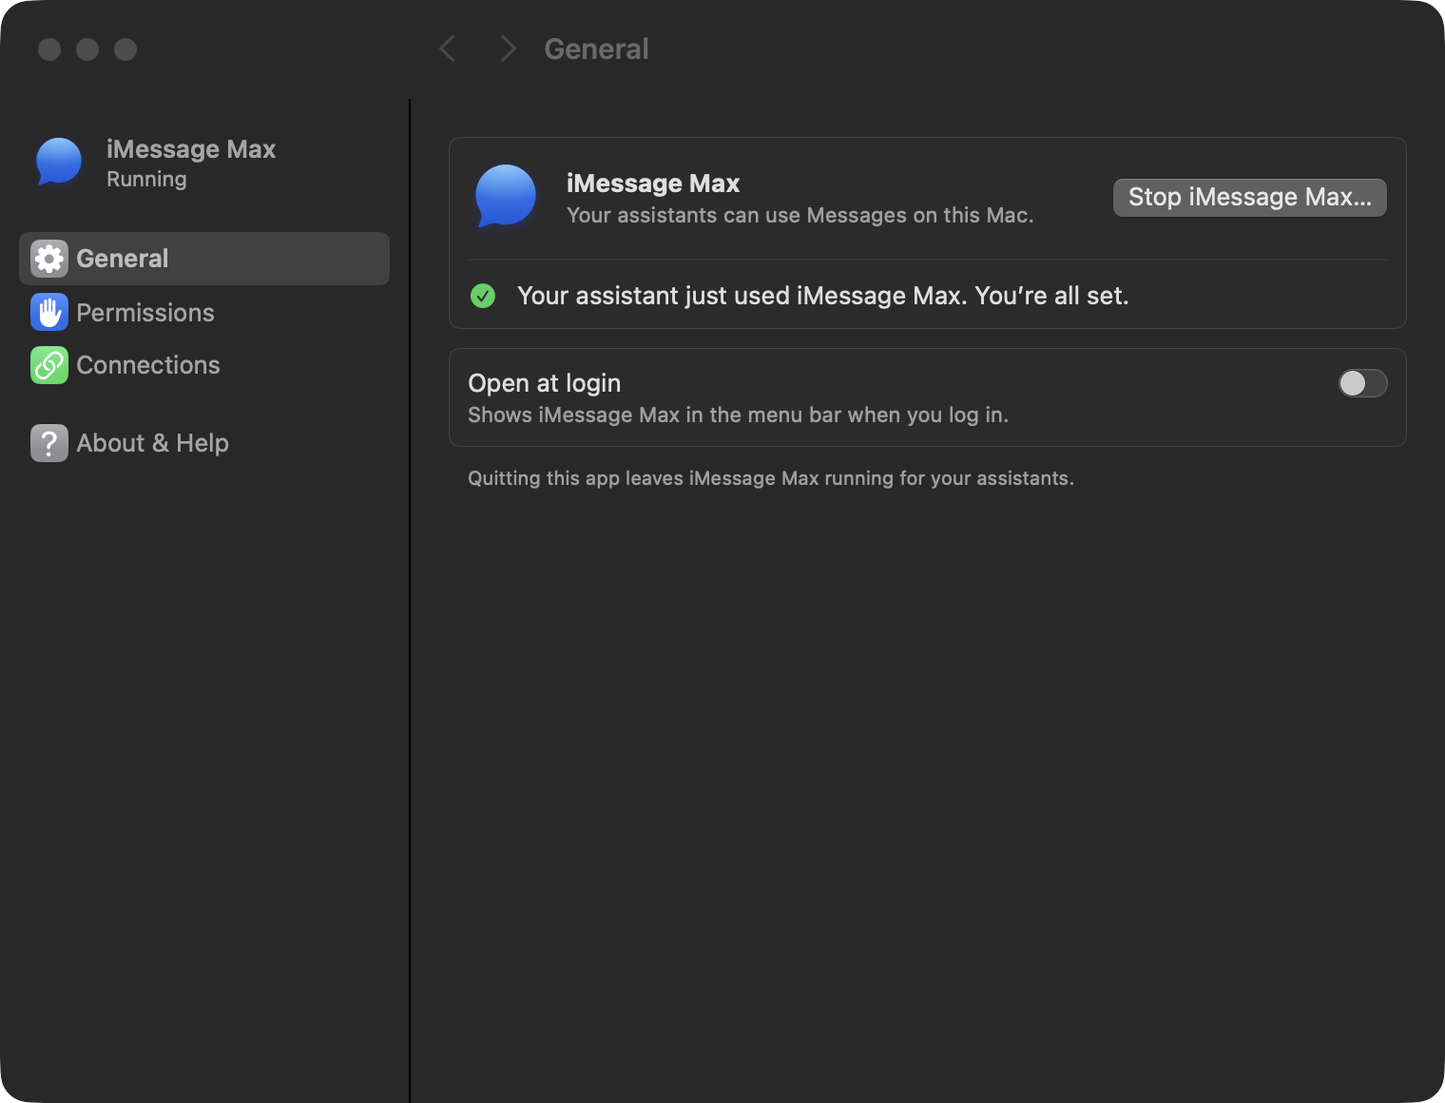
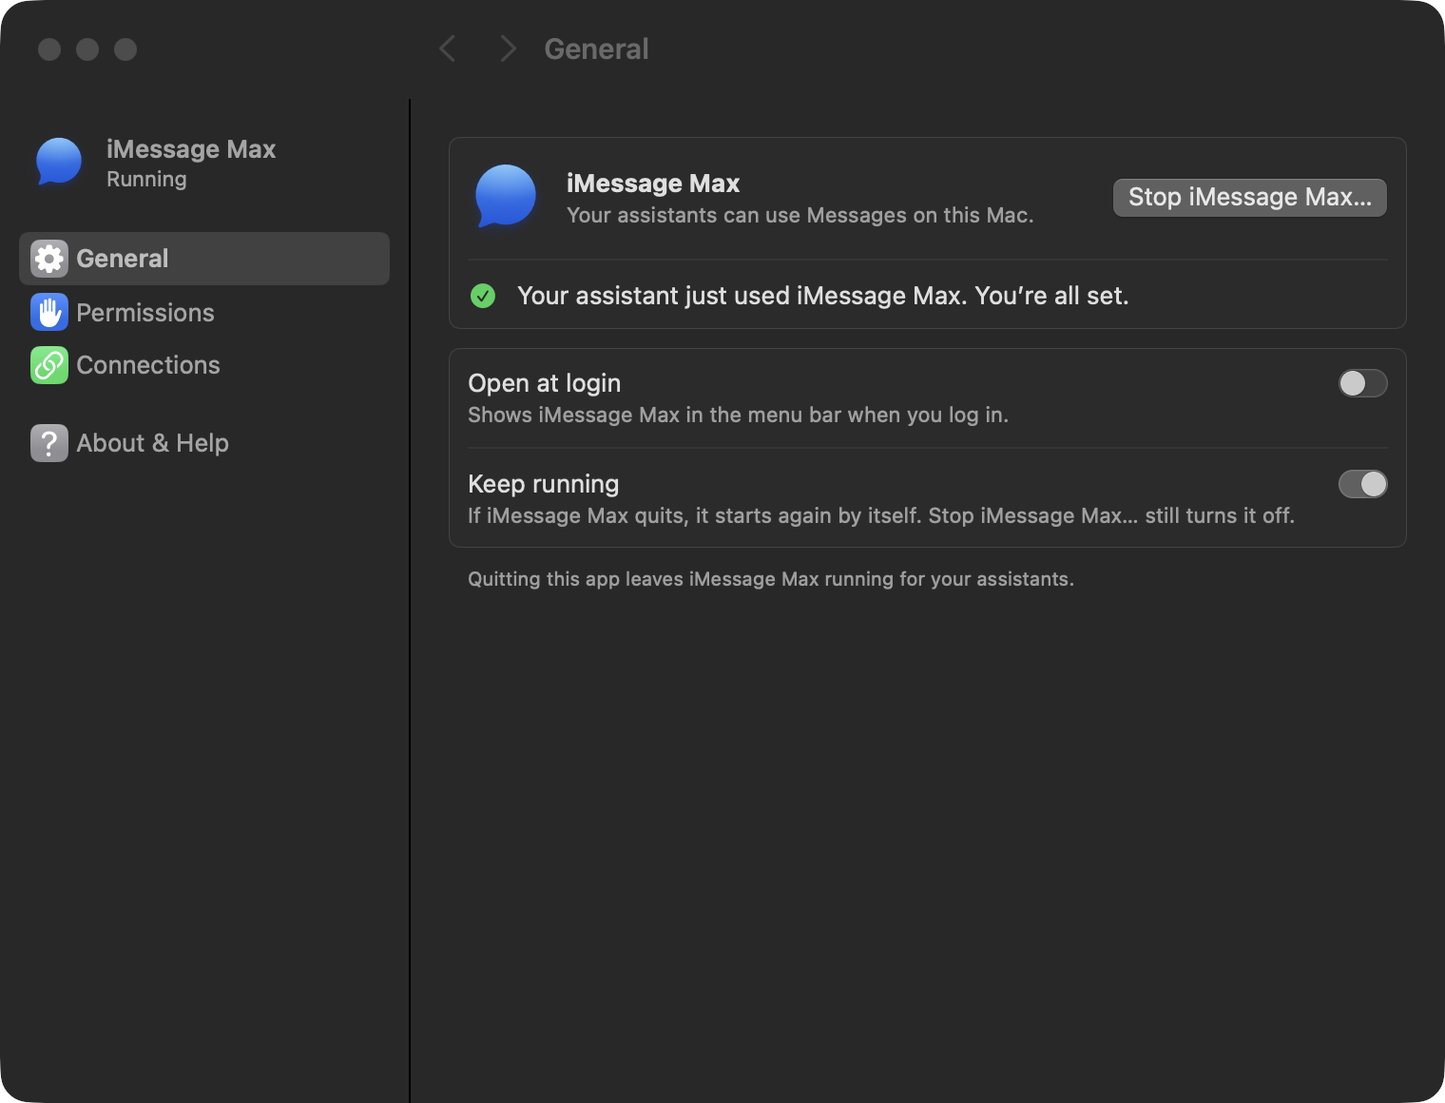
feat: Keep running setting for the helper
Settings → General gets a Keep running toggle, on by default. While it is
on, the helper starts again after a plain quit (Activity Monitor, kill),
as #42 made it do always. Turned off, a quit leaves it stopped. Stop
iMessage Max… still unloads the job with launchctl bootout either way.

The plist's KeepAlive is back to {SuccessfulExit: false}, which also
covers crashes, so Crashed is gone. On SIGTERM the helper drains as
before, then reads the setting: exit 0 when a stay-stopped file sits
beside its token, otherwise exit 75 (EX_TEMPFAIL) so launchd relaunches
it. Reading at stop time means the toggle needs no restart. The file
lives in the token file's folder, so a test helper with --token-file
never reads the installed helper's setting. The name is in the contract,
and MaxCore's KeepRunningSetting does the companion's file I/O.

Claude-Session: https://claude.ai/code/session_01EHDfML8yK1iuTpEK9HwBbU

Changed region(s): [[0.3092, 0.4034, 0.8967, 0.5276], [0.9276, 0.4034, 0.9586, 0.4655]]

diff --git a/swift/Tests/iMessageMaxTests/SignalShutdownTests.swift b/swift/Tests/iMessageMaxTests/SignalShutdownTests.swift
@@ -1,10 +1,15 @@
 import Darwin
 import Foundation
+import IMessageMaxContract
 import XCTest
+@testable import iMessageMax
 
 /// launchd, logout and SMAppService stop the HTTP service with SIGTERM. A
-/// clean stop must exit 0: launchd counts any other ending as a crash, and
-/// an abort also leaves a crash report (#27).
+/// clean stop must end in a plain exit, never an abort, which leaves a crash
+/// report (#27). The exit code carries the Keep running setting: 0 while the
+/// stay-stopped file sits beside the token, so launchd leaves the helper
+/// down, and `KeepRunning.relaunchExitCode` otherwise, so launchd starts it
+/// again.
 ///
 /// The abort only showed in optimized builds, so CI and `make release-check`
 /// also run this class with IMESSAGE_MAX_BINARY set to the release binary.
@@ -15,6 +20,23 @@ final class SignalShutdownTests: XCTestCase {
     func testIdleServerExitsZeroOnSIGTERM() throws {
         let server = try SpawnedServer()
         try server.terminate(within: 5)
+    }
+
+    func testWithoutTheStayStoppedFileSIGTERMExitsWithTheRelaunchCode() throws {
+        let server = try SpawnedServer(stayStopped: false)
+        try server.terminate(within: 5, expecting: KeepRunning.relaunchExitCode)
+        XCTAssertTrue(server.stderr.contains("Stopped exit=\(KeepRunning.relaunchExitCode)"), server.stderr)
+    }
+
+    /// The companion's toggle reaches a running helper, with no restart.
+    func testTheSettingIsReadWhenTheServerStops() throws {
+        let turnedOff = try SpawnedServer(stayStopped: false)
+        try turnedOff.setStayStopped(true)
+        try turnedOff.terminate(within: 5)
+
+        let turnedOn = try SpawnedServer()
+        try turnedOn.setStayStopped(false)
+        try turnedOn.terminate(within: 5, expecting: KeepRunning.relaunchExitCode)
     }
 
     func testServerWithAnOpenSSEStreamExitsZeroOnSIGTERM() throws {
@@ -101,12 +123,14 @@ private final class SpawnedServer {
     private let folder: URL
     private let stderrURL: URL
 
-    /// `prepare` runs before launch with the socket path.
-    init(prepare: (String) throws -> Void = { _ in }) throws {
+    /// `prepare` runs before launch with the socket path. `stayStopped`
+    /// writes the Keep running opt-out beside the token, so SIGTERM exits 0.
+    init(stayStopped: Bool = true, prepare: (String) throws -> Void = { _ in }) throws {
         // Short, so the socket path fits sun_path.
         folder = URL(fileURLWithPath: try makeShortTempFolder())
         socketPath = folder.appendingPathComponent("s.sock").path
         try prepare(socketPath)
+        try Self.setStayStopped(stayStopped, in: folder)
         let tokenURL = folder.appendingPathComponent("token")
         stderrURL = folder.appendingPathComponent("stderr.log")
         FileManager.default.createFile(atPath: stderrURL.path, contents: nil)
@@ -146,8 +170,22 @@ private final class SpawnedServer {
         try? FileManager.default.removeItem(at: folder)
     }
 
+    func setStayStopped(_ on: Bool) throws { try Self.setStayStopped(on, in: folder) }
+
+    private static func setStayStopped(_ on: Bool, in folder: URL) throws {
+        let marker = folder.appendingPathComponent(ServiceDefaults.stayStoppedFileName)
+        if on {
+            try Data().write(to: marker)
+        } else if FileManager.default.fileExists(atPath: marker.path) {
+            try FileManager.default.removeItem(at: marker)
+        }
+    }
+
     @discardableResult
-    func terminate(within seconds: TimeInterval, file: StaticString = #filePath, line: UInt = #line) throws -> TimeInterval {
+    func terminate(
+        within seconds: TimeInterval, expecting status: Int32 = 0,
+        file: StaticString = #filePath, line: UInt = #line
+    ) throws -> TimeInterval {
         let start = Date()
         kill(process.processIdentifier, SIGTERM)
         guard exited.wait(timeout: .now() + seconds) == .success else {
@@ -155,7 +193,7 @@ private final class SpawnedServer {
         }
         let elapsed = Date().timeIntervalSince(start)
         XCTAssertEqual(process.terminationReason, .exit, "server died by signal \(process.terminationStatus) after \(elapsed) s: \(Self.tail(stderrURL))", file: file, line: line)
-        XCTAssertEqual(process.terminationStatus, 0, "server exited \(process.terminationStatus) after \(elapsed) s: \(Self.tail(stderrURL))", file: file, line: line)
+        XCTAssertEqual(process.terminationStatus, status, "server exited \(process.terminationStatus) after \(elapsed) s: \(Self.tail(stderrURL))", file: file, line: line)
         return elapsed
     }
 

diff --git a/macos/Tests/CompanionTests/AppModelTests.swift b/macos/Tests/CompanionTests/AppModelTests.swift
@@ -46,14 +46,16 @@ private actor StuckSystem: ServiceSystem {
 }
 
 @MainActor
-private func model(_ system: any ServiceSystem, milestones: Milestones = Milestones(defaults: nil)) throws -> AppModel {
+private func model(
+  _ system: any ServiceSystem, milestones: Milestones = Milestones(defaults: nil),
+  home: URL = FileManager.default.temporaryDirectory.appendingPathComponent(UUID().uuidString)
+) throws -> AppModel {
   let plist = try PropertyListSerialization.data(
     fromPropertyList: [
       "Label": ServiceDefaults.launchdLabel, "BundleProgram": ServiceDefaults.helperBundlePath,
       "AssociatedBundleIdentifiers": [ServiceDefaults.companionBundleID],
       "ProgramArguments": [ServiceDefaults.executableName, "--http", "--port", "8080"],
     ], format: .xml, options: 0)
-  let home = FileManager.default.temporaryDirectory.appendingPathComponent(UUID().uuidString)
   let configuration = try ServiceConfiguration(
     plist: plist, plistName: "\(ServiceDefaults.launchdLabel).plist",
     bundleIdentifier: ServiceDefaults.companionBundleID,
@@ -66,6 +68,32 @@ private func model(_ system: any ServiceSystem, milestones: Milestones = Milesto
 }
 
 @Suite struct AppModelTests {
+  @MainActor @Test func keepRunningIsOnUntilTheUserTurnsItOff() throws {
+    let home = FileManager.default.temporaryDirectory.appendingPathComponent(UUID().uuidString)
+    defer { try? FileManager.default.removeItem(at: home) }
+    let marker = home.appendingPathComponent(ServiceDefaults.tokenPath).deletingLastPathComponent()
+      .appendingPathComponent(ServiceDefaults.stayStoppedFileName)
+    let first = try model(StuckSystem(running: false), home: home)
+    #expect(first.keepRunning == true)
+
+    first.setKeepRunning(false)
+    #expect(first.keepRunning == false)
+    #expect(FileManager.default.fileExists(atPath: marker.path))
+    #expect(try model(StuckSystem(running: false), home: home).keepRunning == false)
+
+    first.setKeepRunning(true)
+    #expect(first.keepRunning == true)
+    #expect(!FileManager.default.fileExists(atPath: marker.path))
+    #expect(first.problem == nil)
+  }
+
+  @MainActor @Test func keepRunningIsHiddenWithoutAHelperToKeep() {
+    let model = AppModel(
+      controller: nil, milestones: Milestones(defaults: nil), prepareMessages: {})
+    #expect(model.keepRunning == nil)
+    model.setKeepRunning(false)
+    #expect(model.keepRunning == nil)
+  }
   @MainActor @Test func aServiceChangeThatNeverAnswersFreesTheButtons() async throws {
     let system = StuckSystem(running: false)
     let model = try model(system)

diff --git a/macos/Tests/MaxCoreTests/KeepRunningSettingTests.swift b/macos/Tests/MaxCoreTests/KeepRunningSettingTests.swift
@@ -1,0 +1,58 @@
+import Foundation
+import IMessageMaxContract
+import Testing
+
+@testable import MaxCore
+
+@Suite struct KeepRunningSettingTests {
+  private let home = FileManager.default.temporaryDirectory
+    .appendingPathComponent("keep-running-\(UUID().uuidString)")
+
+  private func configuration(_ extra: [String] = []) throws -> ServiceConfiguration {
+    let plist = try PropertyListSerialization.data(
+      fromPropertyList: [
+        "Label": ServiceDefaults.launchdLabel, "BundleProgram": ServiceDefaults.helperBundlePath,
+        "AssociatedBundleIdentifiers": [ServiceDefaults.companionBundleID],
+        "ProgramArguments": [ServiceDefaults.executableName, "--http"] + extra,
+      ], format: .xml, options: 0)
+    return try ServiceConfiguration(
+      plist: plist, plistName: "\(ServiceDefaults.launchdLabel).plist",
+      bundleIdentifier: ServiceDefaults.companionBundleID,
+      bundleURL: URL(fileURLWithPath: "/Applications/iMessage Max.app"), home: home)
+  }
+
+  @Test func theFileSitsBesideTheTokenTheHelperReads() throws {
+    let standard = KeepRunningSetting(configuration: try configuration())
+    #expect(
+      standard.marker
+        == home.appendingPathComponent(ServiceDefaults.tokenPath).deletingLastPathComponent()
+        .appendingPathComponent(ServiceDefaults.stayStoppedFileName))
+
+    let variant = KeepRunningSetting(
+      configuration: try configuration(["--token-file", "/tmp/imax-test/token"]))
+    #expect(variant.marker.path == "/tmp/imax-test/\(ServiceDefaults.stayStoppedFileName)")
+  }
+
+  @Test func onByDefaultAndOffOnlyWhileTheFileExists() throws {
+    defer { try? FileManager.default.removeItem(at: home) }
+    let setting = KeepRunningSetting(configuration: try configuration())
+    #expect(setting.isOn)
+
+    // The helper has not made its folder yet: turning off makes it 0700.
+    try setting.set(false)
+    #expect(!setting.isOn)
+    let folder = try FileManager.default.attributesOfItem(
+      atPath: setting.marker.deletingLastPathComponent().path)
+    #expect((folder[.posixPermissions] as? Int) == 0o700)
+    let file = try FileManager.default.attributesOfItem(atPath: setting.marker.path)
+    #expect((file[.posixPermissions] as? Int) == 0o600)
+
+    try setting.set(false)
+    #expect(!setting.isOn)
+    try setting.set(true)
+    #expect(setting.isOn)
+    #expect(!FileManager.default.fileExists(atPath: setting.marker.path))
+    try setting.set(true)
+    #expect(setting.isOn)
+  }
+}

diff --git a/macos/Sources/iMessageMaxMenu/AppModel.swift b/macos/Sources/iMessageMaxMenu/AppModel.swift
@@ -21,6 +21,9 @@ final class AppModel {
   private(set) var notice: Notice?
   private(set) var celebration = 0
   private(set) var loginStatus = SMAppService.mainApp.status
+  /// Settings → General → Keep running. nil when this copy of the app has no
+  /// valid agent plist, so there is no helper to keep running.
+  private(set) var keepRunning: Bool?
   /// The clients found on this Mac, in table order. Empty until the first scan.
   private(set) var clients: [ClientRow] = []
   private(set) var clientsScanned = false
@@ -65,6 +68,7 @@ final class AppModel {
     self.clientContext = clientContext
     self.changeDeadline = changeDeadline
     self.permissionDeadline = permissionDeadline
+    keepRunning = controller.map { KeepRunningSetting(configuration: $0.configuration).isOn }
     let tried = milestones.reached(.triedAssistant)
     self.tried = tried
     connectSettled =
@@ -193,6 +197,7 @@ final class AppModel {
     let elapsed = start.duration(to: .now).components
     checkMilliseconds = Int(elapsed.seconds * 1000 + elapsed.attoseconds / 1_000_000_000_000_000)
     loginStatus = SMAppService.mainApp.status
+    keepRunning = KeepRunningSetting(configuration: controller.configuration).isOn
     if awake { await refreshClients() }
   }
 
@@ -455,6 +460,18 @@ final class AppModel {
       }
       loginStatus = SMAppService.mainApp.status
     } catch { problem = "Could not change launch at login. \(error.localizedDescription)" }
+  }
+
+  /// The helper reads the setting as it stops, so this needs no restart.
+  func setKeepRunning(_ on: Bool) {
+    guard let controller else { return }
+    let setting = KeepRunningSetting(configuration: controller.configuration)
+    do {
+      try setting.set(on)
+    } catch {
+      problem = error.localizedDescription
+    }
+    keepRunning = setting.isOn
   }
 
   func copy(_ text: String, acknowledgement: String = "Copied.") {

diff --git a/macos/Sources/MaxCore/KeepRunningSetting.swift b/macos/Sources/MaxCore/KeepRunningSetting.swift
@@ -1,0 +1,49 @@
+import Darwin
+import Foundation
+import IMessageMaxContract
+
+/// Settings → General → Keep running. On, the default, means launchd starts
+/// the helper again after it quits. Off is a stay-stopped file beside the
+/// helper's token, which the helper reads as it stops, so a change applies
+/// to the running helper. Stop unloads the job either way.
+public struct KeepRunningSetting: Sendable, Equatable {
+  public let marker: URL
+
+  public init(marker: URL) { self.marker = marker }
+
+  /// The file beside the token file the bundled plist names, so a test
+  /// variant reads and writes only its own.
+  public init(configuration: ServiceConfiguration) {
+    self.init(
+      marker: configuration.tokenFile.deletingLastPathComponent()
+        .appendingPathComponent(ServiceDefaults.stayStoppedFileName))
+  }
+
+  public var isOn: Bool {
+    var info = stat()
+    return lstat(marker.path, &info) != 0
+  }
+
+  public func set(_ on: Bool) throws {
+    if on {
+      guard unlink(marker.path) == 0 || errno == ENOENT else { throw Self.failure(errno) }
+      return
+    }
+    guard isOn else { return }
+    let folder = marker.deletingLastPathComponent()
+    do {
+      // The helper makes this folder 0700 on first start; match it.
+      try FileManager.default.createDirectory(
+        at: folder, withIntermediateDirectories: true, attributes: [.posixPermissions: 0o700])
+    } catch {
+      throw CoreError.commandFailed("Could not change Keep running. \(error.localizedDescription)")
+    }
+    let fd = open(marker.path, O_WRONLY | O_CREAT | O_NOFOLLOW | O_CLOEXEC, 0o600)
+    guard fd >= 0 else { throw Self.failure(errno) }
+    close(fd)
+  }
+
+  private static func failure(_ code: Int32) -> CoreError {
+    .commandFailed("Could not change Keep running. \(String(cString: strerror(code))).")
+  }
+}

diff --git a/swift/Sources/iMessageMax/Server/KeepRunning.swift b/swift/Sources/iMessageMax/Server/KeepRunning.swift
@@ -1,0 +1,22 @@
+import Darwin
+import Foundation
+import IMessageMaxContract
+
+/// The Keep running setting, as the HTTP helper applies it when it stops.
+/// The agent plist relaunches the helper after any exit but a zero one, so
+/// the exit code decides whether launchd starts it again. The companion's
+/// Stop unloads the job instead, so it stays down whatever this says.
+enum KeepRunning {
+    /// EX_TEMPFAIL: non-zero, so launchd relaunches the helper, and a code
+    /// that reads as "stopped, try again" rather than as a failure.
+    static let relaunchExitCode: Int32 = 75
+
+    /// Read as the helper stops, so a change applies without a restart.
+    /// `folder` holds the token file, which keeps a test helper with
+    /// `--token-file` away from the installed helper's setting.
+    static func exitCode(folder: URL) -> Int32 {
+        var info = stat()
+        let stayStopped = lstat(folder.appendingPathComponent(ServiceDefaults.stayStoppedFileName).path, &info) == 0
+        return stayStopped ? 0 : relaunchExitCode
+    }
+}

diff --git a/swift/Tests/iMessageMaxTests/ServiceFilesContractTests.swift b/swift/Tests/iMessageMaxTests/ServiceFilesContractTests.swift
@@ -25,7 +25,11 @@ final class ServiceFilesContractTests: XCTestCase {
                 ServerOption.logFile.flag, "~/\(ServiceDefaults.logPath)",
             ])
         XCTAssertEqual(plist["RunAtLoad"] as? Bool, true)
-        XCTAssertEqual(plist["KeepAlive"] as? Bool, true)
+        // Any exit but a zero one relaunches the helper, a crash included.
+        // The helper exits zero on SIGTERM only when Keep running is off.
+        let keepAlive = try XCTUnwrap(plist["KeepAlive"] as? [String: Bool])
+        XCTAssertEqual(keepAlive, ["SuccessfulExit": false])
+        XCTAssertNotEqual(KeepRunning.relaunchExitCode, 0)
         XCTAssertEqual(plist["ThrottleInterval"] as? Int, 10,
                        "kickstart -k waits out the throttle, and a restart must finish inside the companion's wait")
         XCTAssertNil(plist["StandardErrorPath"], "launchd does not expand ~; the helper opens its own log")

diff --git a/contract/Sources/IMessageMaxContract/Service.swift b/contract/Sources/IMessageMaxContract/Service.swift
@@ -22,6 +22,11 @@ public enum ServiceDefaults {
   /// The bearer token every HTTP request must send. The helper creates it,
   /// mode 0600, on first start.
   public static let tokenPath = "Library/Application Support/iMessage Max/token"
+  /// The Keep running setting, off while this file exists. It sits beside
+  /// the token file, so a helper with `--token-file` reads it from that
+  /// file's folder. The helper reads it as it stops: without it a SIGTERM
+  /// exits non-zero and launchd starts the helper again.
+  public static let stayStoppedFileName = "stay-stopped"
   /// The Unix socket stdio bridges connect to. The helper creates it, mode
   /// 0600, in its 0700 app-support folder.
   public static let socketPath = "Library/Application Support/iMessage Max/mcp.sock"

diff --git a/macos/Sources/MaxCore/ServiceSystem.swift b/macos/Sources/MaxCore/ServiceSystem.swift
@@ -34,8 +34,9 @@ public enum SystemCommand: Sendable, Equatable {
   /// `launchctl kickstart`, with `-k` when `restart` kills a running process first.
   case kickstart(label: String, restart: Bool)
   /// Unloads the job until the next login or registration. Stopping uses
-  /// this, not SIGTERM: KeepAlive relaunches the helper however it exits,
-  /// and only an unloaded job stays down.
+  /// this, not SIGTERM: KeepAlive relaunches the helper after a crash, and
+  /// after a SIGTERM too while Keep running is on. Only an unloaded job
+  /// stays down whatever the setting says.
   case bootout(label: String)
 }
 

diff --git a/macos/Sources/iMessageMaxMenu/SettingsPages.swift b/macos/Sources/iMessageMaxMenu/SettingsPages.swift
@@ -118,6 +118,12 @@ struct GeneralPage: View {
             Button("Open Login Items") { SMAppService.openSystemSettingsLoginItems() }
           }
         }
+        if let keepRunning = model.keepRunning {
+          Toggle(isOn: Binding(get: { keepRunning }, set: { model.setKeepRunning($0) })) {
+            Text("Keep running")
+            Text("If iMessage Max quits, it starts again by itself. Stop iMessage Max… still turns it off.")
+          }
+        }
       } footer: {
         Footnote("Quitting this app leaves iMessage Max running for your assistants.")
       }

diff --git a/swift/Sources/iMessageMax/iMessageMaxCommand.swift b/swift/Sources/iMessageMax/iMessageMaxCommand.swift
@@ -79,6 +79,9 @@ struct iMessageMax: AsyncParsableCommand {
             host: host, port: port, accessToken: accessToken, contactsPolicy: contactsPolicy,
             socketOverride: socketPath
         )
+        let code = KeepRunning.exitCode(folder: location.file.deletingLastPathComponent())
+        Log.info("Stopped exit=\(code)")
+        if code != 0 { throw ExitCode(code) }
     }
 
     private func resolvedSocketPath() throws -> SocketPath {

diff --git a/macos/README.md b/macos/README.md
@@ -17,7 +17,7 @@ The Settings window has a sidebar and a grouped form on each page, built from st
 
 The top of the sidebar shows the face, **iMessage Max** and the status word, like the account row in System Settings. Clicking it opens the page that needs you, or General.
 
-- **General** shows what the helper is doing, with **Stop iMessage Max…** (which asks first) or **Start iMessage Max**, or the one button that clears a blocked state: Move to Applications, Replace Older Helper, Restart iMessage Max or Check Again. An error shows here with a Restart button. **Open at login** is off by default. If macOS requires approval, the page links to Login Items.
+- **General** shows what the helper is doing, with **Stop iMessage Max…** (which asks first) or **Start iMessage Max**, or the one button that clears a blocked state: Move to Applications, Replace Older Helper, Restart iMessage Max or Check Again. An error shows here with a Restart button. **Open at login** is off by default. If macOS requires approval, the page links to Login Items. **Keep running**, on by default, starts the helper again when it quits; Stop iMessage Max… still keeps it stopped.
 - **Permissions** lists Background activity, Full Disk Access, Contacts and Automation by their System Settings names, each with a line on what it is for and its status (On or Off, Allowed, Some contacts or Not allowed, or Not checked while the helper is not running). The page looks the same during first run and after. The first missing permission shows its explanation and buttons in its row. Each permission is judged on every check, so a grant turned off in System Settings shows at the next check.
   - Full Disk Access and Contacts need a grant that macOS gives only to a newly started helper. When you open the menu or come back to the window with one of those missing, or you choose Check Again, the app restarts the helper itself and checks.
   - Once every permission is on, a **Connect your assistant** section lists the assistants found on this Mac with one Connect button each. It leaves for good once an assistant connects or calls a tool, or when you choose Not Now.
@@ -55,7 +55,7 @@ The build produces `dist/iMessage Max.app`. The helper is `Contents/MacOS/imessa
 
 People install the app from the notarized DMG on the GitHub release, or with `brew install --cask cyberpapiii/tap/imessage-max`. The cask also links `imessage-max`, the stdio bridge, into Homebrew's `bin`. `brew upgrade --cask imessage-max` replaces the app and leaves the helper running. If the companion was open, brew quits and reopens it, and the reopened companion restarts the helper on the new binary. Otherwise the helper moves to the new binary the next time you open the app or log in. `brew uninstall --cask imessage-max` quits the companion, stops the helper and removes the app. Adding `--zap` also removes the launchd job, the token, the socket, the logs and the preferences.
 
-The helper runs from inside the app. **Set up iMessage Max** registers it with `SMAppService`, so it starts at login, restarts after a crash, and appears once, as iMessage Max, under "App Background Activity" in System Settings → General → Login Items & Extensions. Nothing is copied out of the bundle. The companion reads the label, port and log path from the bundled plist, so a test variant with its own label and port manages only its own helper.
+The helper runs from inside the app. **Set up iMessage Max** registers it with `SMAppService`, so it starts at login, restarts after a crash (and after a plain quit while Keep running is on), and appears once, as iMessage Max, under "App Background Activity" in System Settings → General → Login Items & Extensions. Nothing is copied out of the bundle. The companion reads the label, port and log path from the bundled plist, so a test variant with its own label and port manages only its own helper.
 
 An app run from outside `/Applications` or `~/Applications`, or translocated by Gatekeeper, offers **Move to Applications** and never registers from there. If the helper is turned off in Login Items, Permissions says so and opens Login Items. After an update replaces the app, the next launch of the companion restarts a helper that started before the new binary landed.
 
